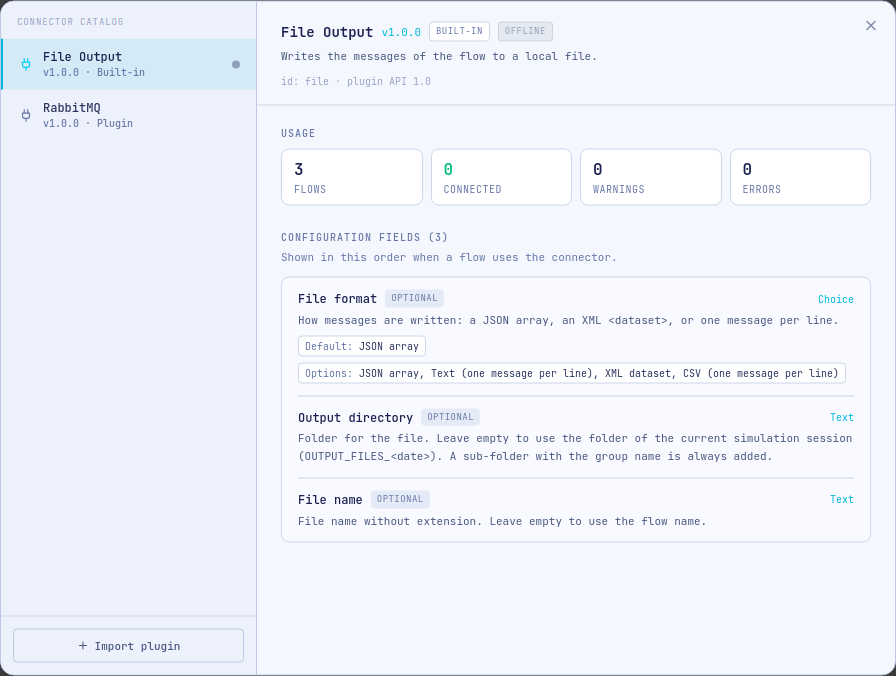
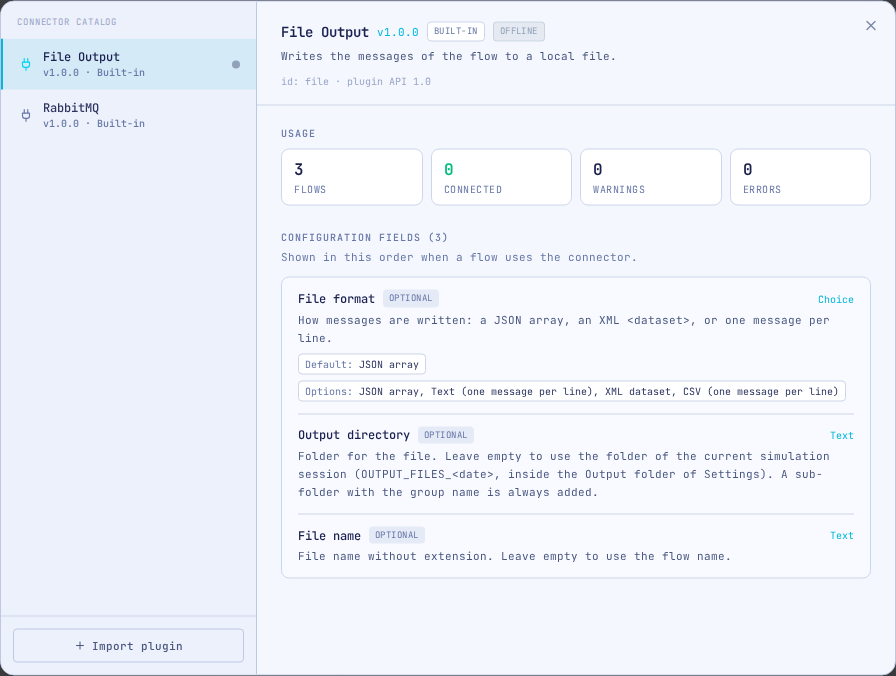
docs: describe RabbitMQ as an included connector

diff --git a/USER_GUIDE.md b/USER_GUIDE.md
@@ -107,11 +107,11 @@ Versions before 0.5.2 do not have this feature: install 0.5.2 by hand once.
 You can choose another folder for the generated files in **Settings → Save & Storage → Output
 folder** (see [Settings](#settings)). Uninstalling GenSynth does not delete these folders.
 
-### Optional: the RabbitMQ connector
+### Connectors included
 
-GenSynth always includes the **File Output** connector. To publish to RabbitMQ, also download
-`rabbitmq-connector-1.0.0.jar` from the **Assets** of the same release page. You install it from
-inside GenSynth (see [Importing a plugin](#importing-a-plugin)); there is nothing to unpack.
+GenSynth includes two connectors, ready to use after installing: **File Output** and **RabbitMQ**
+(see [Connectors](#connectors)). Other technologies are added with a connector plugin (see
+[Importing a plugin](#importing-a-plugin)).
 
 ---
 
@@ -123,7 +123,7 @@ inside GenSynth (see [Importing a plugin](#importing-a-plugin)); there is nothin
 | **Flow** | One stream of messages: a message format (template), a pace (*Every N ticks*) and a destination (connector). Think of it as one device. |
 | **Variable** | A value generator (number, text, list item, boolean, date/time or position) that you insert in a template with `{{name}}`. |
 | **Template** | The text of each message (JSON, XML, CSV or plain text) with `{{…}}` placeholders. |
-| **Connector** | Where messages go: a file, or a broker added with a plugin (RabbitMQ…). |
+| **Connector** | Where messages go: a file, RabbitMQ, or another destination added with a plugin. |
 | **Tick** | The global clock of the simulation. On every tick, each flow that is due generates one message. |
 
 ---
@@ -240,10 +240,8 @@ It takes about five minutes.
    docker run -d --name rabbitmq -p 5672:5672 -p 15672:15672 rabbitmq:3-management
    ```
 
-2. **Install the plugin.** Click **+** (Import Plugin) in the top bar, drop
-   `rabbitmq-connector-1.0.0.jar`, wait for the validation and click **Import Validated Plugin →
-   INSTALL & RESTART**. GenSynth restarts (see [Importing a plugin](#importing-a-plugin)).
-3. **Point the flows to RabbitMQ.** Select *Station 1* in the left panel. In the flow settings, in
+2. **Point the flows to RabbitMQ.** The RabbitMQ connector is included in GenSynth: there is
+   nothing to install. Select *Station 1* in the left panel. In the flow settings, in
    the centre of the window (above **Message Format**), change **Connector** to **RabbitMQ** and
    fill in the fields. For a local broker only three fields need a value:
 
@@ -256,10 +254,10 @@ It takes about five minutes.
    Setting **Queue** makes GenSynth create a durable queue bound to the exchange, so messages are
    kept until your consumer reads them. Tip: configure *Station 1* first and then clone it; clones
    copy the connector settings.
-4. **Start** and open the management UI at <http://localhost:15672> (user `guest`, password
+3. **Start** and open the management UI at <http://localhost:15672> (user `guest`, password
    `guest`). In **Queues → weather-readings → Get messages** you can see the JSON of each reading.
 
-All the RabbitMQ fields are described in [RabbitMQ connector](#rabbitmq-connector).
+All the RabbitMQ fields are described in [RabbitMQ connector](#rabbitmq-connector-built-in).
 
 ### Consuming the events
 
@@ -581,7 +579,8 @@ counts as a **fail**.
 
 ### File Output (built in)
 
-GenSynth includes one connector, always available, that writes the messages of each flow to a file:
+GenSynth includes two connectors, always available: this one, which writes the messages of each flow
+to a file, and [RabbitMQ](#rabbitmq-connector-built-in).
 
 | Field | What it does | Default |
 |---|---|---|
@@ -626,7 +625,7 @@ Click **Connectors (N)** in the top bar to open the catalog. For each loaded con
 
 ![Plugin import](docs-assets/user-guide/11-plugin-import.png)
 
-Any destination other than a file is added with a **connector plugin**: a single `.jar` file that
+Any destination other than a file or RabbitMQ is added with a **connector plugin**: a single `.jar` file that
 teaches GenSynth to send messages to a technology such as a message broker (AMQP, MQTT, Kafka…),
 a TCP/UDP socket or an HTTP endpoint. Plugins are distributed separately from GenSynth, and anyone
 can implement one by following the [Plugin Developer Guide](plugin-api/PLUGIN_DEVELOPER_GUIDE.md).
@@ -638,12 +637,14 @@ can implement one by following the [Plugin Developer Guide](plugin-api/PLUGIN_DE
 4. Click **Import Validated Plugin** and confirm with **INSTALL & RESTART**. GenSynth restarts
    (running flows stop) and the new connector appears in the connector list of every flow.
 
-### RabbitMQ connector
+### RabbitMQ connector (built in)
 
 ![RabbitMQ fields](docs-assets/user-guide/12-rabbitmq-fields.png)
 
-The RabbitMQ plugin publishes each message to an exchange and waits for the broker's
-confirmation before counting it as sent.
+The RabbitMQ connector is included in GenSynth (since 0.5.2; before, it was a separate plugin). It
+publishes each message to an exchange and waits for the broker's confirmation before counting it
+as sent. Its source code is in [`connectors/rabbitmq`](connectors/rabbitmq), a complete example of
+a connector plugin.
 
 | Field | What it does | Default |
 |---|---|---|

diff --git a/packaging/release-notes.md b/packaging/release-notes.md
@@ -1,6 +1,7 @@
 ## What's new in 0.5.2
 
 - **Update from the app:** GenSynth checks for new versions when it starts and lets you choose: **Update now** (it downloads the installer of your system, checks it with SHA-256 and installs it), **Not now** (keep the installed version) or **Skip this version**. Nothing is installed unless you ask; you can also check, or turn the check off, in *Settings → About & Updates*. Versions before 0.5.2 do not have it, so install this version by hand once.
+- **RabbitMQ included:** the RabbitMQ connector now comes with GenSynth, so there is no plugin to download or import. If you imported `rabbitmq-connector-1.0.0.jar` in 0.5.1, there is nothing to do: GenSynth uses the included one and ignores the old copy.
 - **Order of a sequential group:** choose how the messages of the same tick are ordered: **Flow order** (set it with the new ↑ / ↓ arrows of the flow list), **Random** (a new order every tick) or **First generated** (each message is sent as soon as it is ready).
 
 Fixes for the first reviews of the [user guide](https://github.com/alegarciasanchez7/tfg-gensynth/blob/main/USER_GUIDE.md) walkthrough:
@@ -33,6 +34,4 @@ No Java installation is needed: everything GenSynth needs is included.
 
 `SHA256SUMS.txt` lists the checksum of every file.
 
-### Optional downloads
 
-- `rabbitmq-connector-1.0.0.jar`: connector plugin to publish to RabbitMQ. Install it with **Connectors → Import plugin**; GenSynth restarts and RabbitMQ appears in the connector list.

diff --git a/README.md b/README.md
@@ -14,7 +14,8 @@ other destination. It lets you test consumers, dashboards and data pipelines wit
 - **Flows and groups**: model many data sources and run them in parallel or in sequence.
 - **Precise pacing**: a global clock sets how often each flow sends.
 - **Live metrics**: messages per second, deliveries and failures for every flow.
-- **Extensible**: new destinations are added as connector plugins.
+- **Ready-made destinations**: files (JSON, text, XML, CSV) and RabbitMQ are included.
+- **Extensible**: other destinations are added as connector plugins.
 
 ## Installation
 
@@ -49,7 +50,8 @@ java -cp "target/classes:target/dependency/*" com.gensynth.core.App --desktop   
 
 - [Contributing](CONTRIBUTING.md): project structure, build, tests, CI and releases.
 - [Plugin Developer Guide](plugin-api/PLUGIN_DEVELOPER_GUIDE.md): create a connector plugin to send
-  messages to a new technology.
+  messages to a new technology. The included [RabbitMQ connector](connectors/rabbitmq) is a complete
+  example.
 
 ## Credits
 

diff --git a/CONTRIBUTING.md b/CONTRIBUTING.md
@@ -19,9 +19,10 @@ the [User Guide](USER_GUIDE.md).
 | `core/` | Simulation engine and desktop application (Java 21, Maven). |
 | `simulator-ui/` | User interface (React + TypeScript, Vite, Vitest). |
 | `plugin-api/` | Public API for connector plugins: see the [Plugin Developer Guide](plugin-api/PLUGIN_DEVELOPER_GUIDE.md). |
+| `connectors/rabbitmq/` | RabbitMQ connector, written as a plugin and included in the application (it is on the core's classpath, like File Output). |
 | `packaging/` | Icons, release notes and other resources of the installers. |
 
-The root `pom.xml` builds the plugin API and the engine. The engine and the interface talk through
+The root `pom.xml` builds the plugin API, the included connectors and the engine. The engine and the interface talk through
 a WebSocket bridge on port **8765**.
 
 ## Requirements

diff --git a/plugin-api/PLUGIN_DEVELOPER_GUIDE.md b/plugin-api/PLUGIN_DEVELOPER_GUIDE.md
@@ -17,6 +17,9 @@ A plugin only has to do two things:
 Everything else (scheduling, threads, retries of the simulation, metrics, UI, persistence) is
 done by GenSynth.
 
+For a complete, real plugin, see the RabbitMQ connector in [`connectors/rabbitmq`](../connectors/rabbitmq):
+it is written exactly like an external plugin and is included in GenSynth.
+
 ---
 
 ## 1. Quick start
